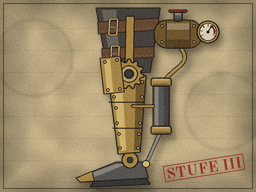
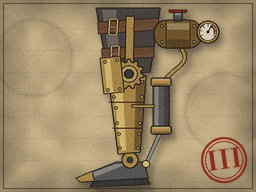
Aktenbilder: Stufen auch in 75 Pixeln zu unterscheiden – große Feder an Beine 2, Herz 1 als runde Uhr, runder Stempel mit Ziffer

Changed region(s): [[0.625, 0.6875, 0.9688, 0.9688]]

diff --git a/tools/art/akte_bilder.py b/tools/art/akte_bilder.py
@@ -484,7 +484,7 @@ def draw_beine(p, img, level):
         p.dashes([(113, 65), (124, 63), (125, 81), (114, 81), (113, 65)], LEATHER_D, 0.6, 2, 2)
     if level >= 2:
         # Federwerk hinter der Wade: Schraubenfeder zwischen Kniehebel und Ferse
-        top, foot = (160, 80), (156, 150) if level == 2 else (164, 150)
+        top, foot = (174, 76), (172, 154) if level == 2 else (164, 150)
         if level == 2:
             p.line([(134, 72), top], INK, 4.4)
             p.line([(134, 72), top], BRASS, 2.6)
@@ -493,15 +493,17 @@ def draw_beine(p, img, level):
             coil = []
             for i in range(19):
                 t = i / 18
-                coil.append((top[0] + (foot[0] - top[0]) * t + (6 if i % 2 else -6) * (0 < i < 18), top[1] + 6 + (foot[1] - top[1] - 12) * t))
-            p.line([top] + coil + [foot], INK, 3.4)
-            p.line([top] + coil + [foot], STEEL_L, 1.8)
+                coil.append((top[0] + (foot[0] - top[0]) * t + (12 if i % 2 else -12) * (0 < i < 18), top[1] + 6 + (foot[1] - top[1] - 12) * t))
+            p.line([top] + coil + [foot], INK, 5.2)
+            p.line([top] + coil + [foot], STEEL_L, 3.0)
             p.oval(top[0], top[1], 3.4, 3.4, BRASS_L, INK, 0.9)
             p.oval(foot[0], foot[1], 3.4, 3.4, BRASS_L, INK, 0.9)
             p.poly([(108, 60), (127, 58), (130, 86), (110, 86)], BRASS, INK, 1.1)  # Kniekappe aus Messing
             p.poly([(111, 62), (117, 61), (119, 84), (113, 84)], BRASS_L, None)
             p.rivets([(112, 64), (124, 62), (114, 82), (126, 82)], BRASS_L, 1.3)
-            p.gear(134, 72, 12, 9, BRASS, 1.1)
+            p.poly([(106, 90), (122, 89), (125, 148), (114, 148)], BRASS, INK, 1.1)  # Schienbeinplatte
+            p.poly([(109, 92), (114, 92), (118, 146), (115, 146)], BRASS_L, None)
+            p.gear(134, 72, 17, 10, BRASS, 1.2)
         else:
             # Druckkessel am Oberschenkel, Rohr, Arbeitszylinder mit Kolbenstange zur Ferse
             pipe = bezier((186, 48), (196, 62), (176, 66), (168, 80), 16)
@@ -646,20 +648,19 @@ def draw_herz(p, img, level):
     strap(p, (192, 42), (56, 170), 13, LEATHER, 0.82)
     strap(p, (32, 118), (224, 118), 12, LEATHER_D, 0.9)
     if level == 1:
-        # Uhrwerk: kleine Messingdose mit Zifferblatt und Aufziehschlüssel
-        p.box(102, 86, 150, 126, BRASS, r=5)
-        p.box(106, 90, 114, 122, BRASS_L, None, r=3)
-        p.box(140, 92, 150, 122, BRASS_D, None, r=3)
-        p.box(102, 86, 150, 126, None, INK, 1.3, 5)
-        p.rivets([(107, 91), (145, 91), (107, 121), (145, 121)], BRASS_L, 1.4)
-        p.oval(124, 106, 12, 12, FACE, INK, 1.0)
+        # Uhrwerk: runde Dose wie eine große Taschenuhr, Zifferblatt, Aufziehschlüssel
+        p.oval(126, 106, 23, 23, BRASS)
+        p.arc(126, 106, 20, 20, 150, 250, BRASS_L, 2.4)
+        p.arc(126, 106, 20, 20, -30, 70, BRASS_D, 2.4)
+        p.oval(126, 106, 16, 16, FACE, INK, 1.0)
         for a in range(0, 360, 30):
             ca, sa = math.cos(math.radians(a)), math.sin(math.radians(a))
-            p.line([(124 + ca * 9, 106 + sa * 9), (124 + ca * 11, 106 + sa * 11)], INK, 0.6)
-        p.line([(124, 106), (124, 97)], INK, 1.0)
-        p.line([(124, 106), (130, 110)], INK, 1.0)
-        p.line([(150, 106), (160, 106)], INK, 3.2)
-        p.line([(150, 106), (160, 106)], STEEL_L, 1.6)
+            p.line([(126 + ca * 12, 106 + sa * 12), (126 + ca * 15, 106 + sa * 15)], INK, 0.7)
+        p.line([(126, 106), (126, 94)], INK, 1.2)
+        p.line([(126, 106), (134, 111)], INK, 1.2)
+        p.oval(126, 106, 1.6, 1.6, INK, None)
+        p.line([(149, 106), (160, 106)], INK, 3.2)
+        p.line([(149, 106), (160, 106)], STEEL_L, 1.6)
         p.poly([(160, 106), (166, 96), (174, 98), (172, 106), (174, 114), (166, 116)], STEEL_L, INK, 1.1)  # Flügelschlüssel
     elif level == 2:
         # Pumpe: größeres Gehäuse, Druckmesser, Handrad, zwei Anschlüsse
@@ -672,7 +673,10 @@ def draw_herz(p, img, level):
         p.line([(92, 124), (162, 124)], INK, 0.8)
         p.rivets([(98, 92), (156, 92), (98, 130), (112, 130), (126, 130), (142, 130), (156, 130)], BRASS_L, 1.4)
         p.gauge(120, 106, 14, 80)
-        p.wheel(168, 112, 11, STEEL, 4, 20)
+        p.wheel(176, 112, 17, STEEL, 5, 20)
+        p.bar(56, 98, 94, 124, STEEL, 3)  # liegender Pumpenzylinder
+        p.bar(52, 95, 62, 127, BRASS_D, 2, upright=True)
+        p.bar(86, 95, 94, 127, BRASS_D, 2, upright=True)
         p.box(140, 98, 152, 104, dark(BRASS_D, 0.4), INK, 0.8)  # Schauglas
     else:
         # Zwillingspumpe: zwei Zylinder, Schwungrad, großer Druckmesser, Ölglas
@@ -706,7 +710,7 @@ def draw_herz(p, img, level):
 
 # ---------- Karte, Papier, Ausgabe ----------
 
-def card(draw, seed, number=None, stamp=None, stamp_at=(W - 52, H - 24)):
+def card(draw, seed, number=None, stamp=None, stamp_at=(W - 32, H - 32)):
     """Zeichnet einen Gegenstand und legt ihn auf eine vergilbte Karteikarte: Schlagschatten, Flecken, Korn, Rand."""
     layer = Image.new("RGBA", (W * SUPER, H * SUPER), (0, 0, 0, 0))
     draw(Pen(layer), layer)
@@ -744,7 +748,11 @@ def card(draw, seed, number=None, stamp=None, stamp_at=(W - 52, H - 24)):
     if number:
         text(over, number, 9 + len(number) * 3.1, 13, 9.5, INK, 0, "CourierPrime-Regular.ttf", 0.7)
     if stamp:
-        text(over, stamp, stamp_at[0], stamp_at[1], 15, RED, 9, "OldStandard-Bold.ttf", 0.8, frame=True)
+        # Runder Stempel mit der Stufe als großer Ziffer: auch in 75 Bildpunkten Breite zu lesen
+        cx, cy = stamp_at[0] * SUPER, stamp_at[1] * SUPER
+        for r, width in ((23, 2.4), (19, 1.0)):
+            d.ellipse((cx - r * SUPER, cy - r * SUPER, cx + r * SUPER, cy + r * SUPER), outline=RED + (215,), width=int(width * SUPER))
+        text(over, stamp, stamp_at[0], stamp_at[1] - 1, 27, RED, 8, "OldStandard-Bold.ttf", 0.9)
     img.alpha_composite(over.resize((W, H), Image.LANCZOS))
     return img.convert("RGB")
 
@@ -793,8 +801,8 @@ def main():
         mapping["upgrades"][key] = {}
         for level in range(1, UPGRADE_LEVELS + 1):
             name = f"ausbau_{word}_{level}.png"
-            img = card(lambda p, layer, k=key, lv=level: UPGRADE_DRAWINGS[k](p, layer, lv), 2700 + u * 10 + level, None, "STUFE " + ROMAN[level - 1],
-                       (48, 22) if key == "heart" else (W - 52, H - 24))
+            img = card(lambda p, layer, k=key, lv=level: UPGRADE_DRAWINGS[k](p, layer, lv), 2700 + u * 10 + level, None, ROMAN[level - 1],
+                       (32, 32) if key == "heart" else (W - 32, H - 32))
             img.save(OUT / name)
             mapping["upgrades"][key][str(level)] = name
             entries.append((name, img))
